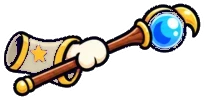
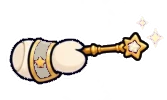
The Priest's stand-in rig: the Sorcerer's parts, without the crescent moon
The Wizard's rig parts the Priest borrowed carry a crescent moon and stars on
the hat and staff, and the class art avoids crescents (a real-world religious
symbol on a priest). The Priest now wears the Sorcerer's parts recoloured ivory
and gold (five-pointed stars only), on the Sorcerer's layout, like the Zealot's
ember-red ones. Its life-skill sleeve colour follows.

Claude-Session: https://claude.ai/code/session_019kevwHHi9fDprq4oAiuq6N

diff --git a/src/render/rangedHeroRig.js b/src/render/rangedHeroRig.js
@@ -5,15 +5,15 @@ import { drawAnimBody, drawSwingArm, drawEmptyArm, hasSwingArt, swingPhase } fro
 // Ranged and magic limbs are separate from the melee pilot so each batch can
 // be reviewed independently. All parts must load before replacing a portrait.
 // The Sniper borrows the Pistoler's parts until its own art arrives (same file names, sniper-*),
-// and the Priest and Zealot the Wizard's and Sorcerer's, recoloured (priest-*, zealot-*).
+// and the Priest and Zealot the Sorcerer's, recoloured ivory and ember red (priest-*, zealot-*).
 export const RANGED_HERO_CLASSES = ['ranger', 'archer', 'sorcerer', 'wizard', 'pistoler', 'sniper', 'priest', 'zealot'];
 export const RANGED_HERO_PARTS = ['body', 'weapon', 'back', 'left', 'right', 'action'];
 export const rangedHeroSrc = (classId, part) => `assets/creatures/hero/rig/${classId}-${part}.webp`;
 // The weapon arm's shoulder, where the painted attack arms (heroAnimArt.js) hang.
 const SHOULDER = { archer: [4, -11], ranger: [4, -11], pistoler: [10, -10], sniper: [6, -10], wizard: [9, -11], sorcerer: [9, -11], priest: [9, -11], zealot: [9, -11] };
 // Rigs drawn on another class's layout (its poses and part sizes): the Priest's and
-// Zealot's stand-in parts are the Wizard's and Sorcerer's until their own sheets arrive.
-const LAYOUT = { priest: 'wizard', zealot: 'sorcerer' };
+// Zealot's stand-in parts are the Sorcerer's until their own sheets arrive.
+const LAYOUT = { priest: 'sorcerer', zealot: 'sorcerer' };
 const images = new Map();
 // Draw, release and cast ease across a restarted shot (see poseBlend.js).
 const blendRanged = poseBlender();

diff --git a/src/render/heroanim.js b/src/render/heroanim.js
@@ -1186,7 +1186,7 @@ const SLEEVE = {
   berserker: '#e9d6b0', juggernaut: '#6f7884', gladiator: '#c08a3a', lancer: '#2f5fb3', brawler: '#f2efe6', halberdier: '#c7cfd8',
   dancer: '#f4a7c4', merchant: '#7a2f4a', ninja: '#2b3a5a', archer: '#4f7a3a', ranger: '#4f7a3a', wizard: '#4b2a7a',
   sorcerer: '#5b3a8c', pistoler: '#2f5a5a', sniper: '#2f5a5a', monk: '#f2efe6',   // (the Monk's: the Brawler's rig parts for now)
-  priest: '#c7bfaa', zealot: '#af4139',   // (their stand-in parts: the Wizard's and Sorcerer's, recoloured)
+  priest: '#cfc7b4', zealot: '#af4139',   // (their stand-in parts: the Sorcerer's, recoloured)
 };
 // Where the hand grips each tool's sticker (0..1 across the picture), which
 // way its head points from there, and how big it is drawn. `edge: -1` mirrors
